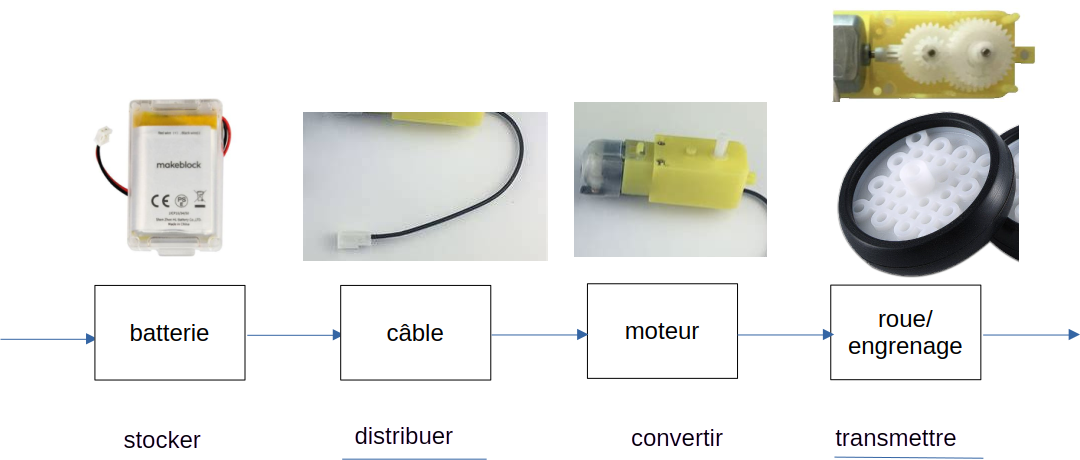
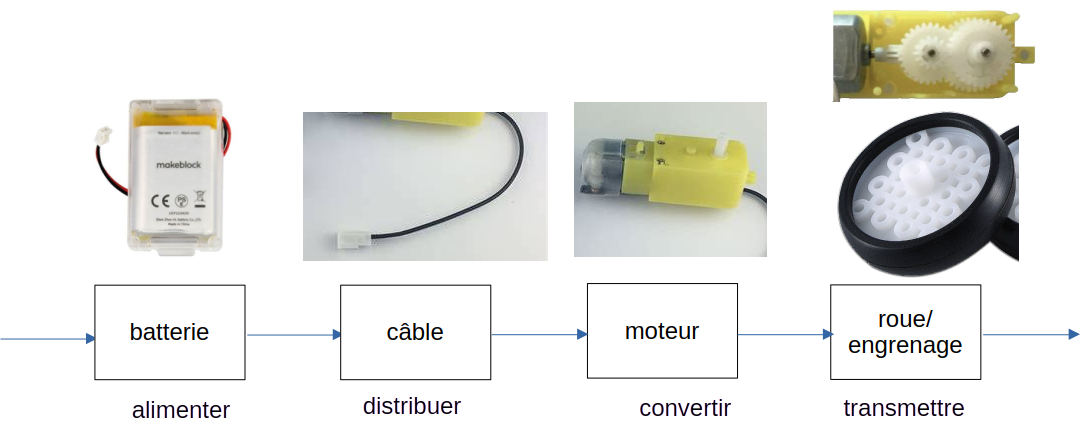
fixImages

diff --git a/docs/5eTechno/chaineEnergieInfo/chaineEnergie.md b/docs/5eTechno/chaineEnergieInfo/chaineEnergie.md
@@ -95,7 +95,7 @@ Dans une chaine d'énergie, il y a différents éléments qui servent à:
 - transmettre
 
 ![Chaine d'énergie du mBot](pictures/chaineEnergieMbot.png)
-
+![alt text](image.png)
 </div>
 <div markdown style="break-inside: avoid;">
 